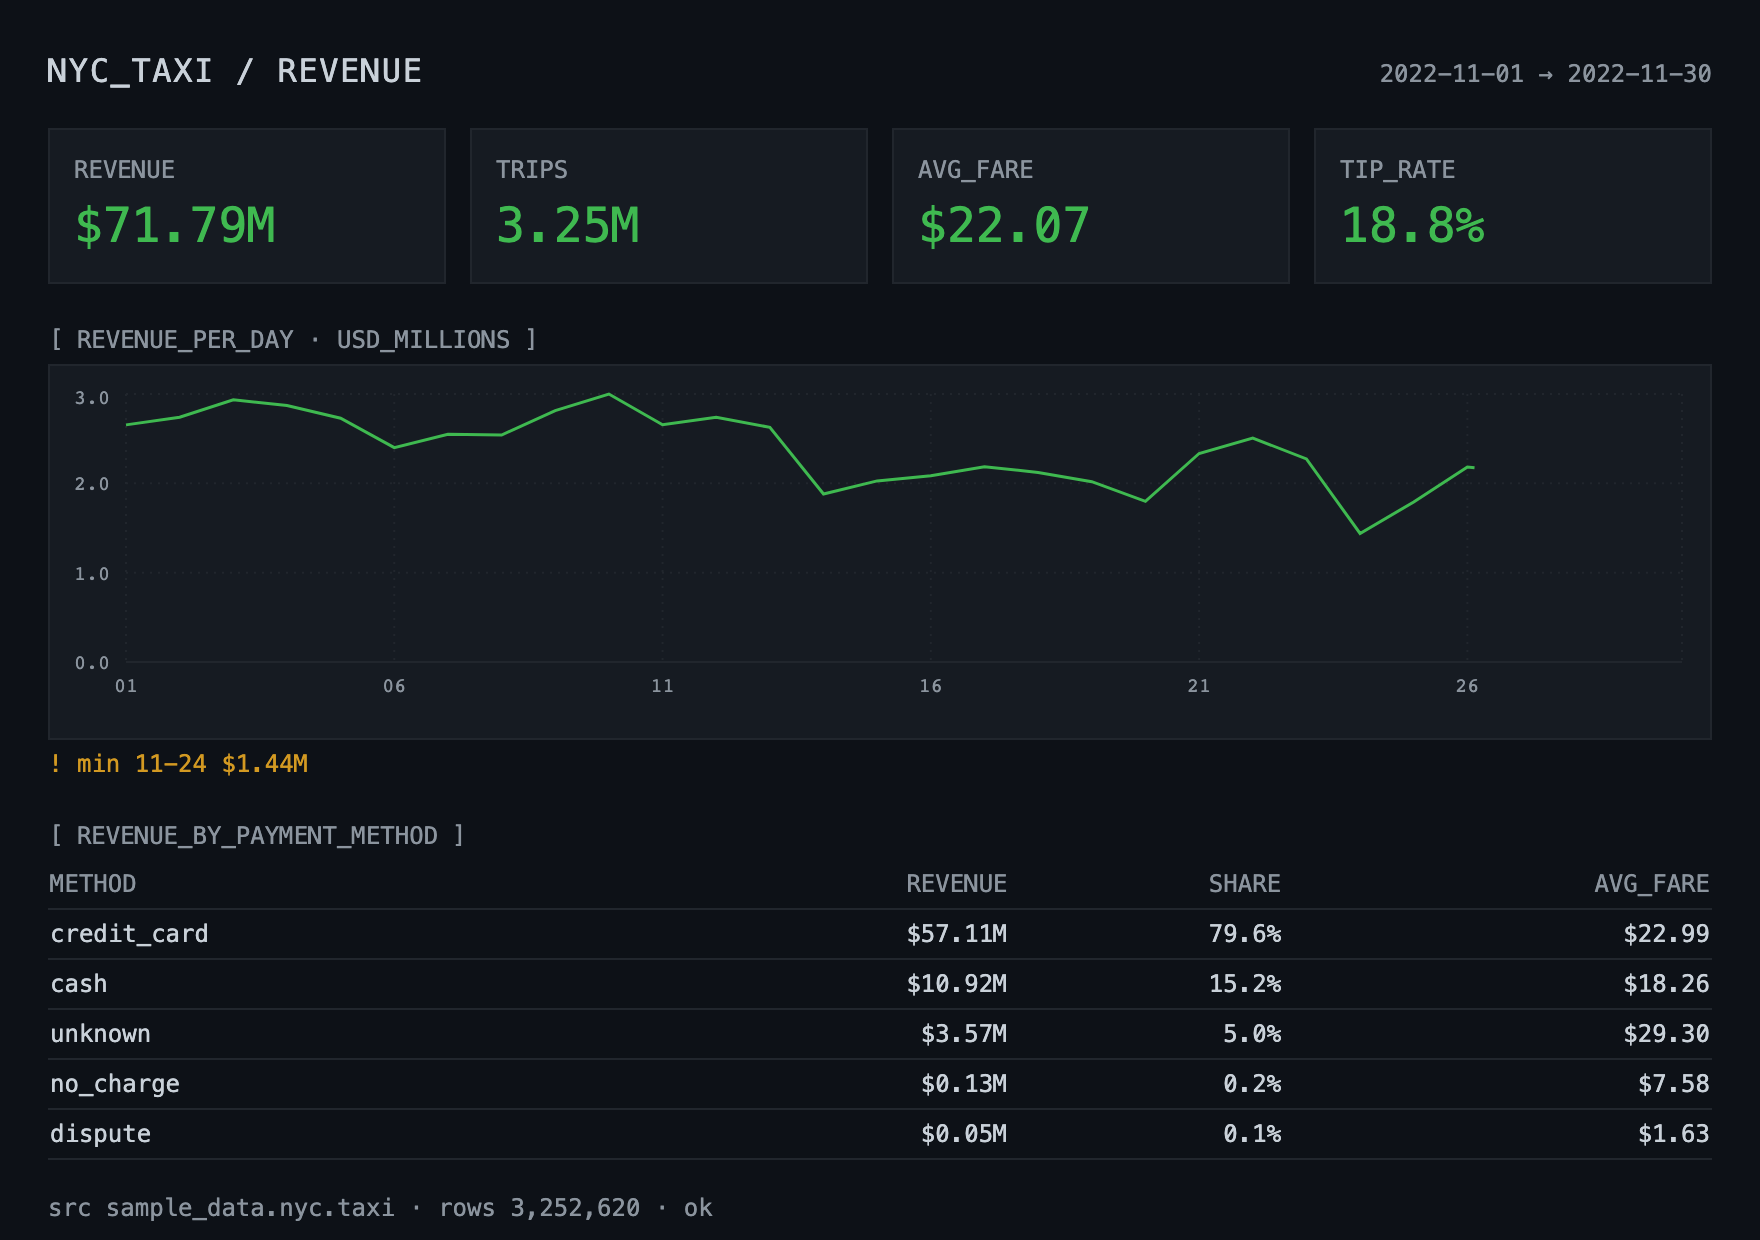
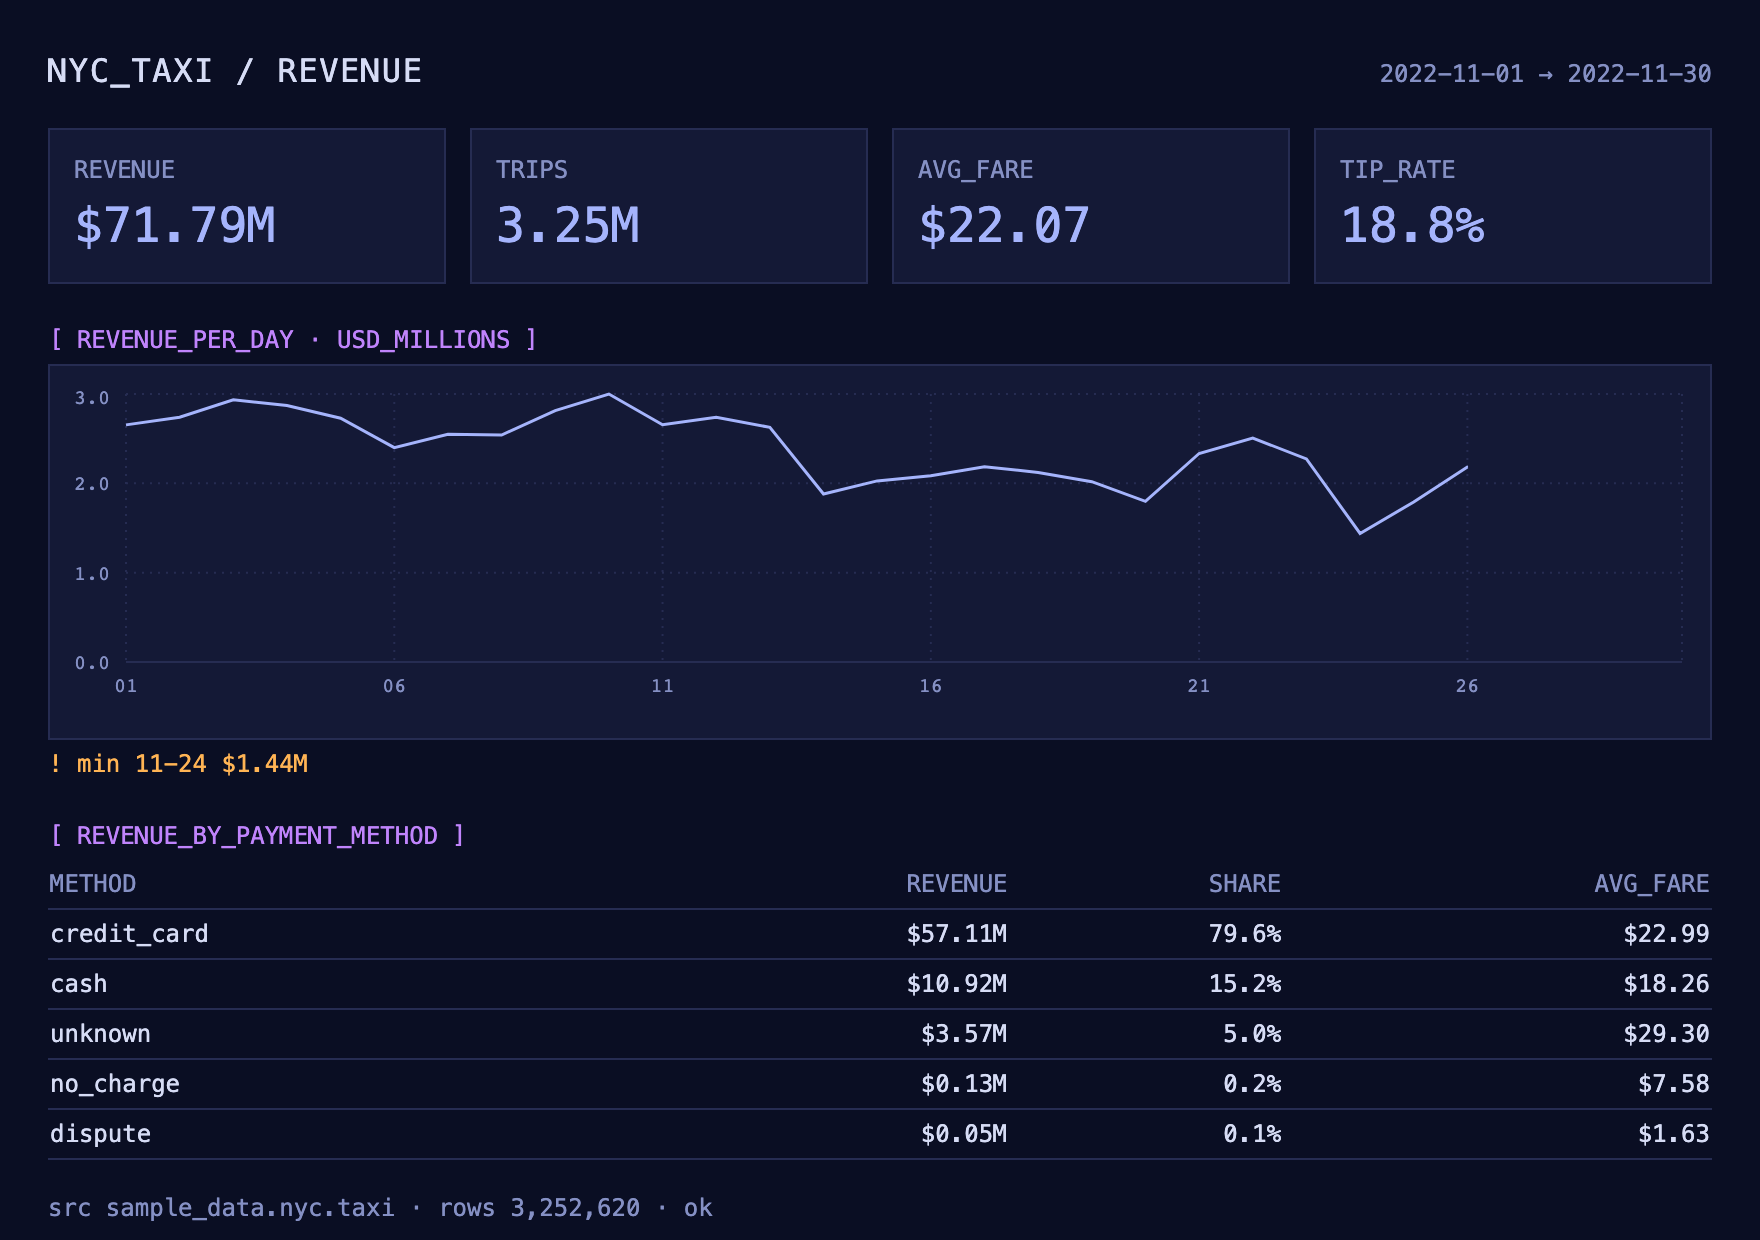
Repalette editorial to FT and terminal to mission control
Editorial was reading as Economist rather than FT: one loud red doing
every job. Split it into the FT pair — oxford blue #0f5499 for every
series and the KPI figures, claret #990f3d for the page marker and for
the single bar the headline is about, labelled in the sub-head so the
highlight is never unexplained. The Guide now says the two hues have
distinct jobs, which is a rule an agent can follow; "less red" is not.

Terminal moves from GitHub-dark green to mission control: deep indigo
ground #0a0e23, periwinkle #a5b4fc data, violet #c084fc bracketed
section headers, amber #ffb454 kept as the only warm color so it still
means something is wrong. Contrast floor restated at #8590c4.

Violet started on the x axis line and read as a stray series sitting at
the baseline, so the Guide now puts axis lines in the grid color and
spends violet on structure instead.

Both files re-run against the live org and the test guides deleted.

diff --git a/dive-style-guide/preview/src/dives/editorial.tsx b/dive-style-guide/preview/src/dives/editorial.tsx
@@ -1,14 +1,16 @@
 /**
  * Editorial — written from `styles/editorial.sql`.
  *
- * Newsroom conventions: tinted paper, a red marker block, a serif headline that
- * states the finding, a sans dek carrying the measure and units, bars with the
- * scale on the right, and a source line.
+ * Financial Times conventions: FT pink stock, oxford blue bars with a claret
+ * highlight on the point the headline names, a serif headline stating the
+ * finding, a sans dek carrying the measure and units, the scale on the right,
+ * and a source line.
  */
 import {
 	Bar,
 	BarChart,
 	CartesianGrid,
+	Cell,
 	ResponsiveContainer,
 	XAxis,
 	YAxis,
@@ -26,9 +28,10 @@ export const REQUIRED_DATABASES = [
 
 const PAPER = '#fff1e5';
 const INK = '#33302e';
-const RED = '#e3120b';
+const OXFORD = '#0f5499';
+const CLARET = '#990f3d';
 const MUTED = '#66605c';
-const RULE = '#cec6b5';
+const RULE = '#cec6b4';
 
 const N = (value: unknown): number => (value == null ? 0 : Number(value));
 
@@ -43,6 +46,10 @@ export default function TaxiRevenueDive() {
 		revenue: N(row.revenue),
 	}));
 	const methods = (Array.isArray(payments.data) ? payments.data : []).slice(0, 3);
+	const lowIndex = series.reduce(
+		(low, point, index) => (point.revenue < series[low].revenue ? index : low),
+		0,
+	);
 
 	const kpis = [
 		{ label: 'Revenue', value: `$${(N(totals.revenue) / 1e6).toFixed(1)}M` },
@@ -56,12 +63,12 @@ export default function TaxiRevenueDive() {
 			className="p-8"
 			style={{ background: PAPER, color: INK, minHeight: '100vh' }}
 		>
-			<div style={{ background: RED, height: 5, width: 44 }} />
+			<div style={{ background: CLARET, height: 5, width: 44 }} />
 			<h1 className="font-serif text-3xl font-bold mt-3 leading-tight">
 				Thanksgiving costs taxis a third of a Thursday
 			</h1>
 			<p className="text-sm mt-2" style={{ color: MUTED }}>
-				New York City yellow taxi revenue, November 2022, USD
+				New York City yellow taxi revenue, November 2022, USD millions
 			</p>
 
 			<div
@@ -70,7 +77,7 @@ export default function TaxiRevenueDive() {
 			>
 				{kpis.map((kpi) => (
 					<div key={kpi.label}>
-						<p className="text-3xl font-semibold tabular-nums" style={{ color: RED }}>
+						<p className="text-3xl font-semibold tabular-nums" style={{ color: OXFORD }}>
 							{kpi.value}
 						</p>
 						<p className="text-xs mt-1" style={{ color: MUTED }}>
@@ -82,7 +89,7 @@ export default function TaxiRevenueDive() {
 
 			<p className="text-sm font-semibold mt-4">Revenue per day</p>
 			<p className="text-xs mb-1" style={{ color: MUTED }}>
-				USD millions
+				Thanksgiving in claret
 			</p>
 			<ResponsiveContainer width="100%" height={168}>
 				<BarChart data={series} margin={{ top: 4, right: 0, bottom: 0, left: 0 }}>
@@ -103,7 +110,14 @@ export default function TaxiRevenueDive() {
 						tick={{ fontSize: 10, fill: MUTED }}
 						tickFormatter={(value) => (value / 1e6).toFixed(1)}
 					/>
-					<Bar dataKey="revenue" fill={RED} />
+					<Bar dataKey="revenue" fill={OXFORD}>
+						{series.map((point, index) => (
+							<Cell
+								key={point.day}
+								fill={index === lowIndex ? CLARET : OXFORD}
+							/>
+						))}
+					</Bar>
 				</BarChart>
 			</ResponsiveContainer>
 

diff --git a/dive-style-guide/preview/src/dives/terminal.tsx b/dive-style-guide/preview/src/dives/terminal.tsx
@@ -1,9 +1,9 @@
 /**
  * Terminal — written from `styles/terminal.sql`.
  *
- * Dark operational console: monospace throughout, bracketed section headers,
- * bordered panels, dotted grid, green primary with amber for the anomaly, and a
- * status line at the bottom.
+ * Mission-control console: deep indigo, monospace throughout, bracketed section
+ * headers, bordered panels, dotted grid, periwinkle values with violet
+ * secondaries and amber for the anomaly, and a status line at the bottom.
  */
 import {
 	CartesianGrid,
@@ -24,13 +24,14 @@ export const REQUIRED_DATABASES = [
 	},
 ];
 
-const BG = '#0d1117';
-const PANEL = '#161b22';
-const BORDER = '#21262d';
-const TEXT = '#c9d1d9';
-const DIM = '#8b949e';
-const GREEN = '#3fb950';
-const AMBER = '#d29922';
+const BG = '#0a0e23';
+const PANEL = '#141936';
+const BORDER = '#262c52';
+const TEXT = '#d6dcf5';
+const DIM = '#8590c4';
+const PERIWINKLE = '#a5b4fc';
+const VIOLET = '#c084fc';
+const AMBER = '#ffb454';
 
 const N = (value: unknown): number => (value == null ? 0 : Number(value));
 
@@ -83,7 +84,7 @@ export default function TaxiRevenueDive() {
 						</p>
 						<p
 							className="text-2xl tabular-nums mt-1"
-							style={{ color: GREEN }}
+							style={{ color: PERIWINKLE }}
 						>
 							{kpi.value}
 						</p>
@@ -91,7 +92,7 @@ export default function TaxiRevenueDive() {
 				))}
 			</div>
 
-			<p className="text-xs uppercase mt-5 mb-1" style={{ color: DIM }}>
+			<p className="text-xs uppercase mt-5 mb-1" style={{ color: VIOLET }}>
 				[ revenue_per_day · usd_millions ]
 			</p>
 			<div
@@ -119,7 +120,7 @@ export default function TaxiRevenueDive() {
 						<Line
 							type="linear"
 							dataKey="revenue"
-							stroke={GREEN}
+							stroke={PERIWINKLE}
 							strokeWidth={1.5}
 							dot={false}
 						/>
@@ -130,7 +131,7 @@ export default function TaxiRevenueDive() {
 				! min 11-{low.day} ${(low.revenue / 1e6).toFixed(2)}M
 			</p>
 
-			<p className="text-xs uppercase mt-5 mb-1" style={{ color: DIM }}>
+			<p className="text-xs uppercase mt-5 mb-1" style={{ color: VIOLET }}>
 				[ revenue_by_payment_method ]
 			</p>
 			<table className="w-full text-xs tabular-nums">

diff --git a/dive-style-guide/README.md b/dive-style-guide/README.md
@@ -53,8 +53,8 @@ What each one changes, beyond the palette:
 
 - **Swiss minimal.** Hairline rules instead of cards, uppercase micro-labels, three KPIs at normal weight, no gridlines, one red accent for every series. Reads as a printed report.
 - **Paper.** Serif throughout including axis ticks, cream stock, clay line, a dashed mean line, and the observation in an italic note under the chart rather than in the title.
-- **Editorial.** Newsroom conventions: a red marker block, a serif headline that states the finding with the comparison behind it, a sans dek carrying place, period and unit, bars with the scale on the right, and a source line on every page.
-- **Terminal.** The one style where panel chrome is correct. Monospace everywhere, bracketed `snake_case` section headers, green values with amber anomaly callouts, a status line closing the page. For dashboards people watch during an incident, not for anything a customer reads.
+- **Editorial.** Financial Times conventions: pink stock, a claret marker block, oxford blue bars with claret on the one day the headline is about, a serif headline that states the finding with the comparison behind it, a sans dek carrying place, period and unit, the scale on the right, and a source line on every page.
+- **Terminal.** Mission control, and the one style where panel chrome is correct. Deep indigo ground, monospace everywhere, violet bracketed `snake_case` section headers, periwinkle values, amber reserved for anomalies, a status line closing the page. For dashboards people watch during an incident, not for anything a customer reads.
 
 Run one as-is to see the shape of a working Guide, then edit the palette and copy rules. Only one `dives` Guide should govern a given look — installing several leaves the agent to choose.
 
@@ -110,8 +110,8 @@ FROM MD_LIST_GUIDES(topic = 'dives');
 | `dive-style-guide.sql` | The annotated blank: creates a Guide under the reserved `dives` topic with a worked style guide to edit, and commented follow-ups for publishing and verifying |
 | `styles/swiss-minimal.sql` | White field, black ink, one red accent, rules instead of cards |
 | `styles/paper.sql` | Cream stock, serif throughout, clay accent, minimum ink |
-| `styles/editorial.sql` | Newsroom graphic: tinted paper, red marker, finding in the headline, source line |
-| `styles/terminal.sql` | Dark operational console, monospace, green values and amber warnings |
+| `styles/editorial.sql` | FT news graphic: pink paper, oxford blue with a claret highlight, finding in the headline, source line |
+| `styles/terminal.sql` | Mission-control console: deep indigo, monospace, periwinkle values and amber warnings |
 | `preview/` | Vite harness that renders each style at the Dive viewport and writes `assets/*.png`. `npm install && npm run shoot` |
 | `assets/*.png` | The rendered screenshots used above |
 
